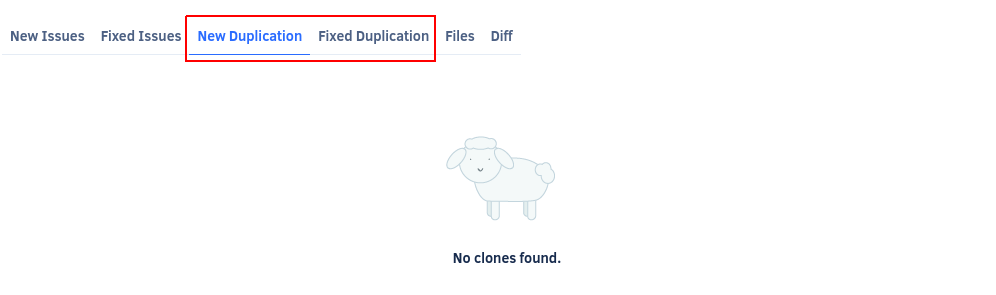
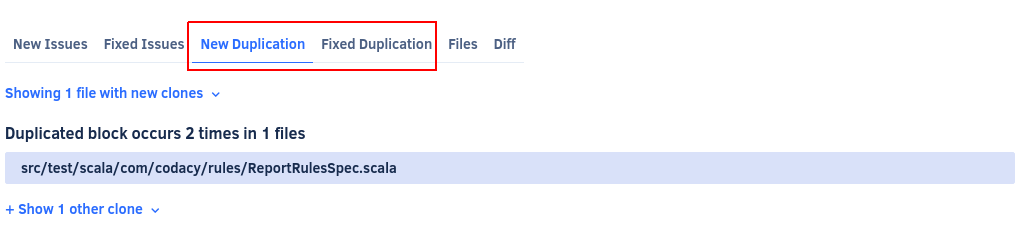
feature: Add screenshot for Duplication tabs

diff --git a/docs/repositories/commits.md b/docs/repositories/commits.md
@@ -53,11 +53,9 @@ Use the options in the cogwheel menu of each issue to [ignore and manage issues]
 
 ## Duplication tabs
 
-The **New Duplication** and **Fixed Duplication** tabs display the list of duplication blocks that the commit created or fixed.
+The **New Duplication** and **Fixed Duplication** tabs display the list of duplicated blocks that the commit created or fixed.
 
-<!--TODO Describe information displayed on the tab-->
-
-![New Duplication and Fixed Duplication tabs](images/commits-tab-duplication.png)<!--TODO Replace screenshot-->
+![New Duplication and Fixed Duplication tabs](images/commits-tab-duplication.png)
 
 ## Files tab
 
